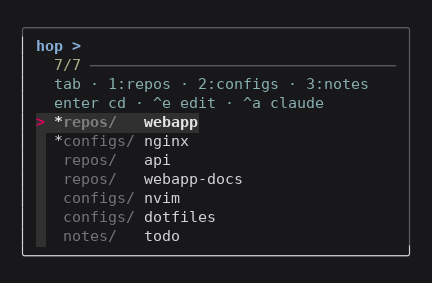
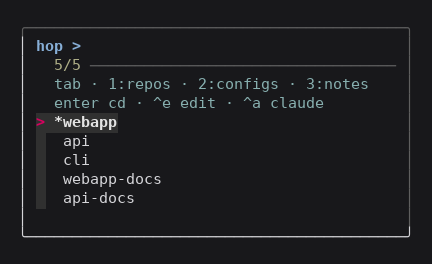
Screenshots that actually show the column working
Both were captured in the "all" state, which is the one view where the
category prefix still repeats on every row -- so they showed the column
sitting there rather than doing anything. Recaptured with a category active:
highlighted in the column, list filtered to it, rows down to bare names, and
"all (tab)" dimmed as the way back.

Demo bookmarks fleshed out to eleven across three categories so the counts and
the filtering are visible rather than implied.

diff --git a/README.md b/README.md
@@ -4,7 +4,7 @@ Bookmarks for the directories you work in. Categories down the left, bookmarks
 in the main area. `tab` walks the categories, arrows pick, `enter` lands you
 there. Type to filter if you would rather.
 
-![hop: a category column on the left listing repos, configs and notes with counts, and the bookmarks for the active category in the main area](docs/demo.png)
+![hop: a category column on the left listing repos, configs and notes with counts, repos highlighted as the active one, and its five bookmarks listed in the main area](docs/demo.png)
 
 `enter` puts your shell in that directory, and activates the project's
 virtualenv if it finds one. Other keys act on it in place: open in `$EDITOR`,
@@ -25,7 +25,7 @@ The layout adapts to width, dropping the widest thing first:
 Switching category is one key rather than a typed query, which is what makes
 it usable on a phone or in a thin split. `^o` toggles the column.
 
-![the same picker at 44 columns: the category column collapsed to a single line of hotkeys, bookmark names only](docs/demo-narrow.png)
+![the same picker at 44 columns: the category column collapsed to a single line of numbered hotkeys, with the active category filtered to names only](docs/demo-narrow.png)
 
 ## Install
 
